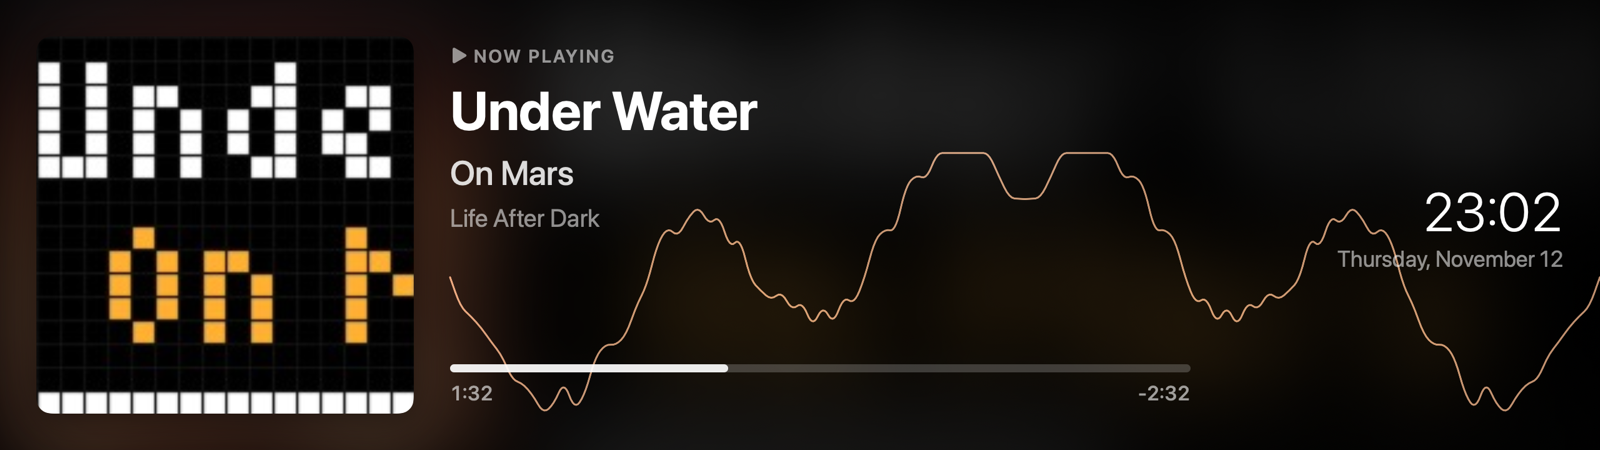
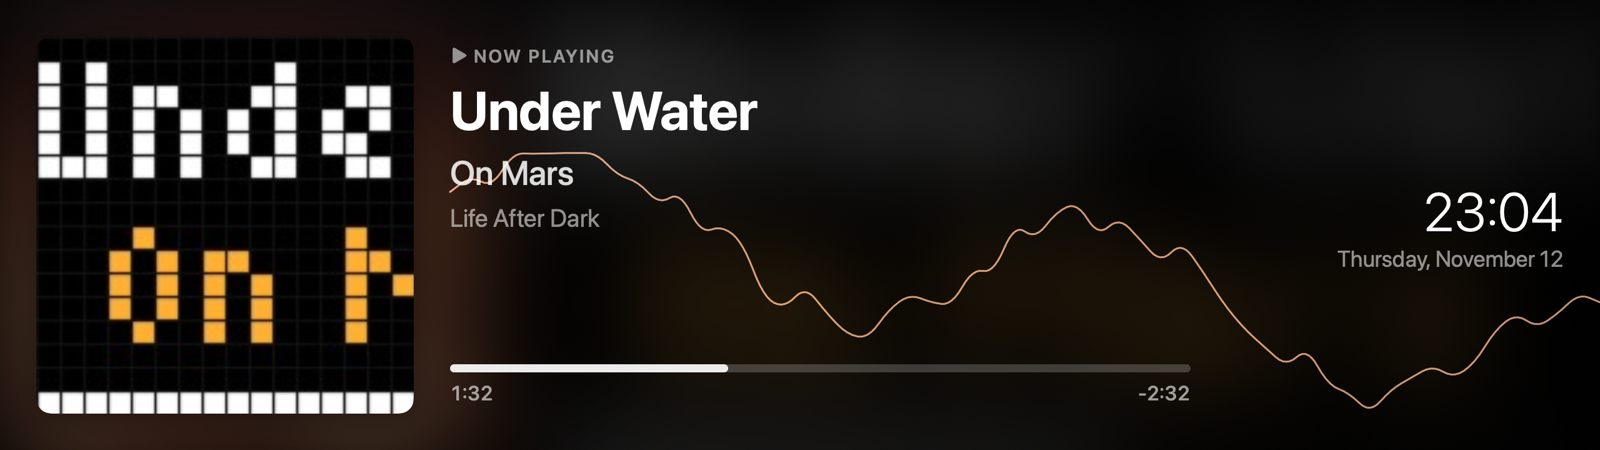
Visualizer: bass left, treble right (no mirroring)

diff --git a/Sources/EdgeNowPlaying/NowPlayingView.swift b/Sources/EdgeNowPlaying/NowPlayingView.swift
@@ -157,7 +157,7 @@ struct ClockView: View {
     }
 }
 
-/// Spectrum drawn as one crisp line (bass in the middle, treble at the ends), from the right edge of
+/// Spectrum drawn as one crisp line (bass on the left, treble on the right), from the right edge of
 /// the artwork to the right edge of the screen.
 struct WaveView: View {
     let spectrum: Spectrum
@@ -173,10 +173,9 @@ struct WaveView: View {
                 if !active { spectrum.decay() }
                 let bands = spectrum.read().map(CGFloat.init)
                 guard (bands.max() ?? 0) > 0.01 else { return }
-                let mirrored = Array(bands.reversed()) + bands
                 // Artwork is a square inset by `pad` on a strip `height` tall, so it ends at x = height.
                 let area = CGRect(x: size.height, y: 0, width: size.width - size.height, height: size.height)
-                stroke(mirrored, scale: 1.0, in: area, ctx: ctx, opacity: 0.85, width: 3)
+                stroke(bands, scale: 1.0, in: area, ctx: ctx, opacity: 0.85, width: 3)
             }
             .blendMode(.plusLighter)
         }
